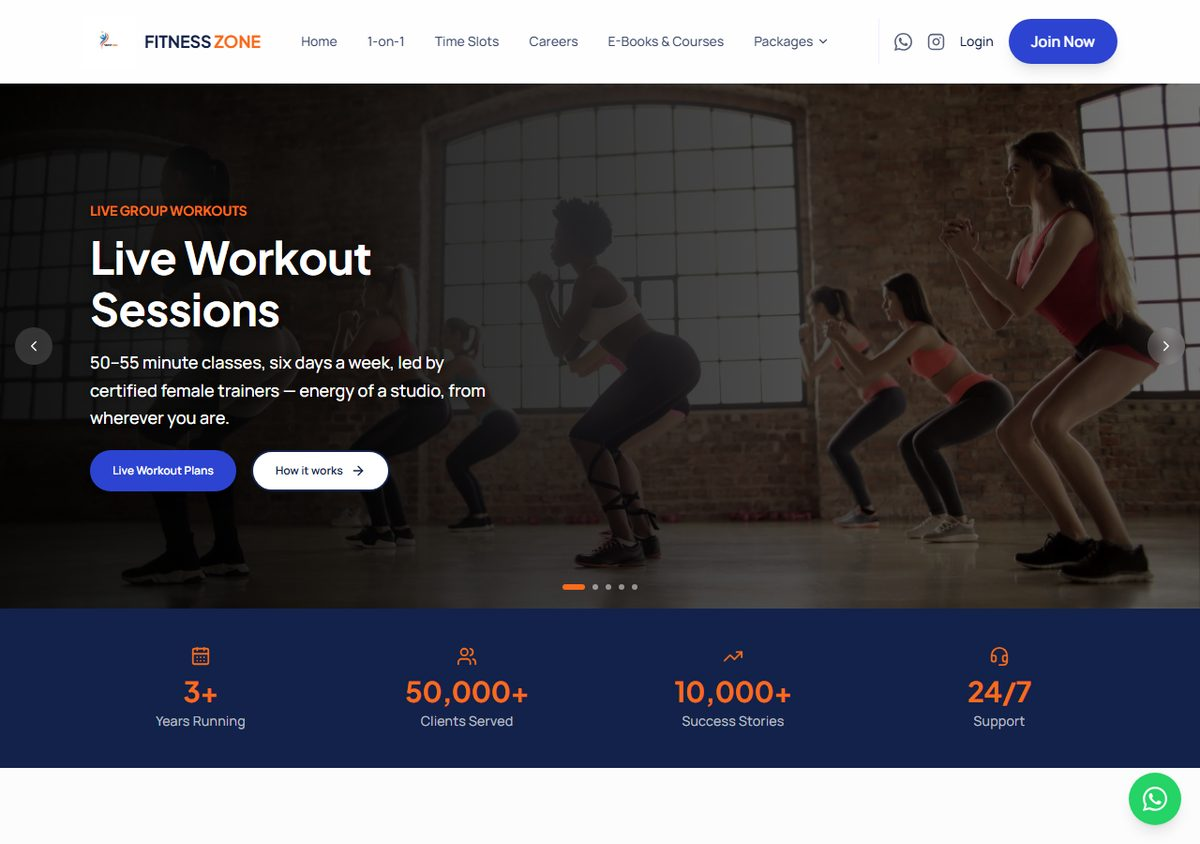
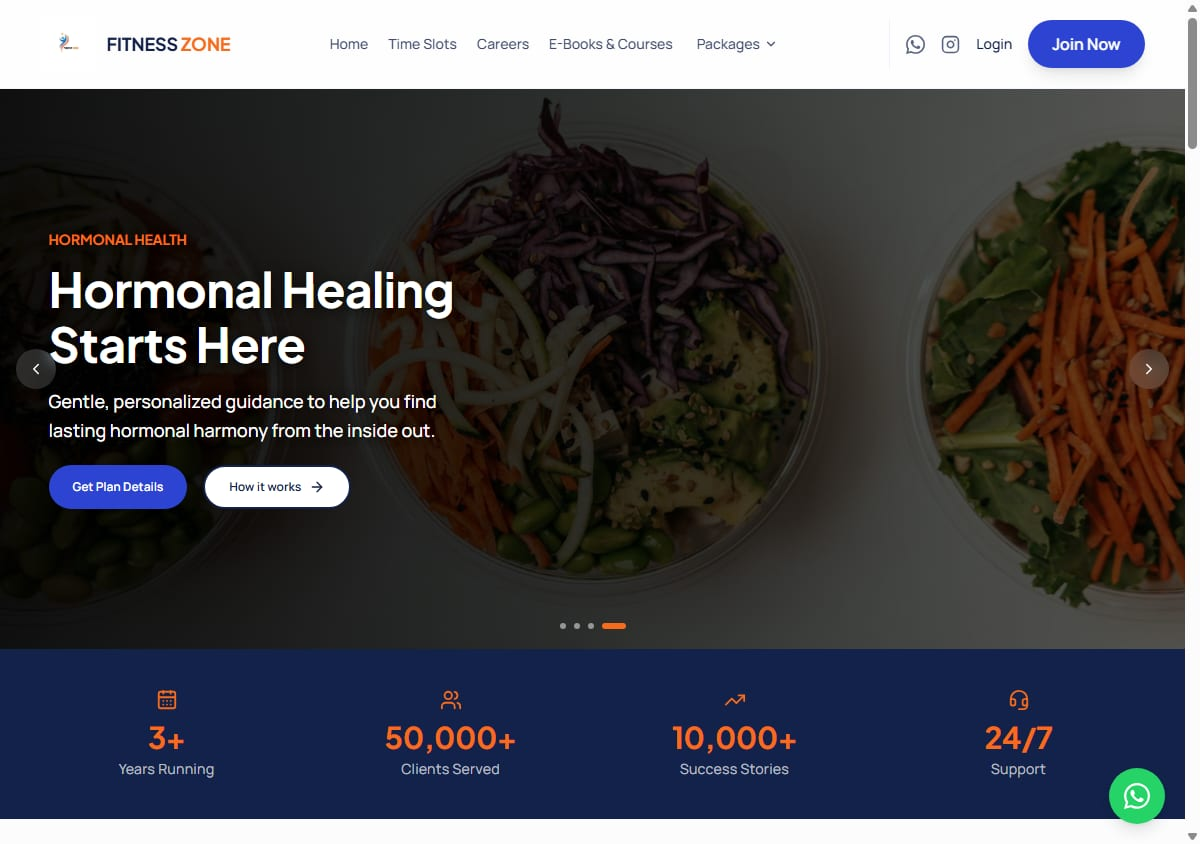
Update Fitness Zone case study for removed 1-on-1 consultations
Fitness Zone now offers only diet plans and live sessions, so the
case study copy and homepage screenshot are refreshed to match the
current live site.

diff --git a/src/components/Projects.jsx b/src/components/Projects.jsx
@@ -28,11 +28,11 @@ const projects = [
     tag: "Women's Wellness Platform",
     role: 'Solo developer — built end to end, from auth to deployment',
     summary:
-      'A membership platform for a UK-registered women\'s health company, replacing scattered WhatsApp groups with one dashboard. Members sign up and choose from three service types — self-paced diet plans, scheduled live workout classes, and bookable 1-on-1 consultations with specialists — all under one account.',
+      'A membership platform for a UK-registered women\'s health company, replacing scattered WhatsApp groups with one dashboard. Members sign up and choose from two service paths — self-paced diet plans and scheduled live workout classes, six days a week — all under one account.',
     features: [
       'Authentication and a member dashboard for a global, remote-first audience',
-      'Three distinct service paths (diet plans, live sessions, consultations) in one coherent flow',
-      'Scheduling for live classes and 1-on-1 specialist bookings',
+      'Two distinct service paths (diet plans, live sessions) combinable in one coherent flow',
+      'Scheduling for live classes led by certified trainers',
       'Session demos and success-story sections to build member confidence',
     ],
     tags: ['React', 'Node.js', 'Express', 'MongoDB'],
